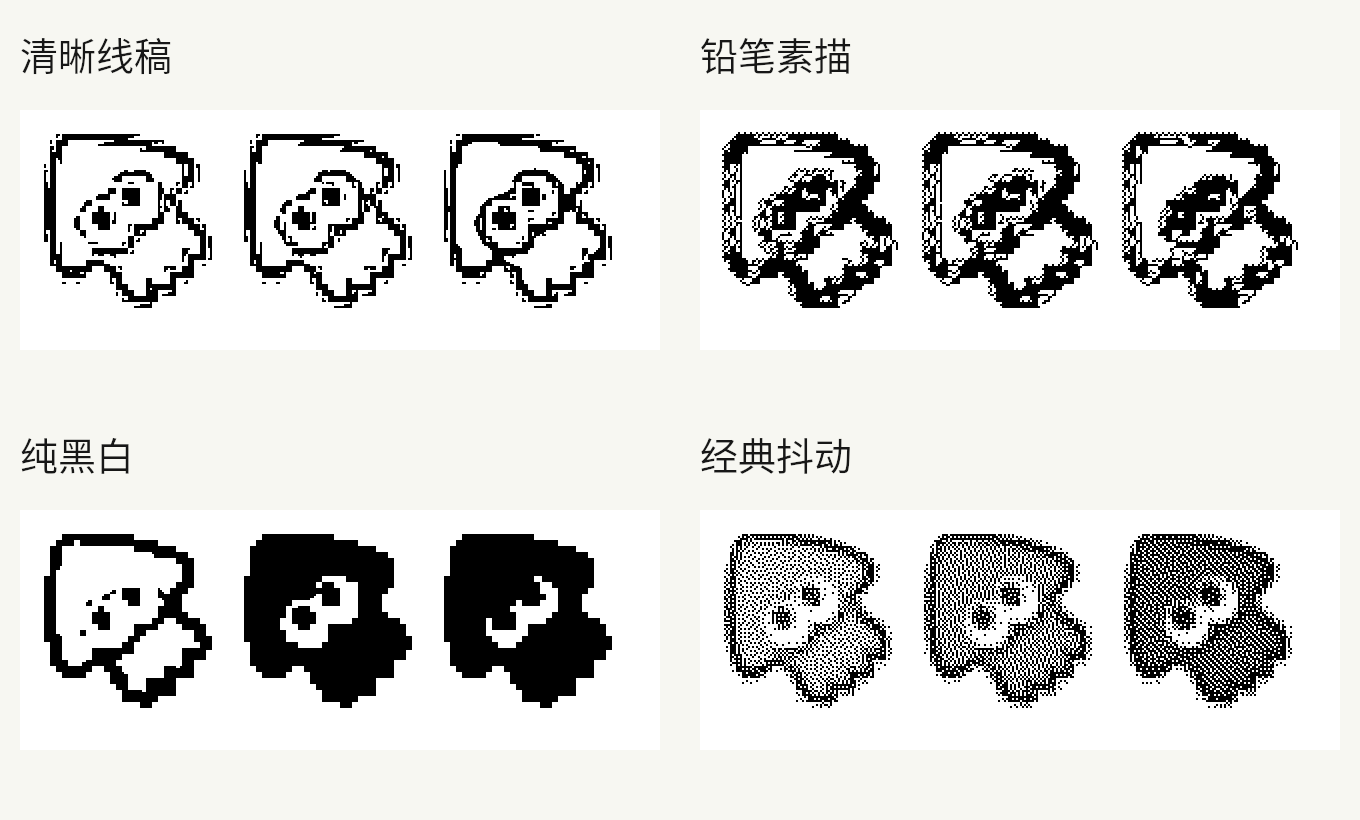
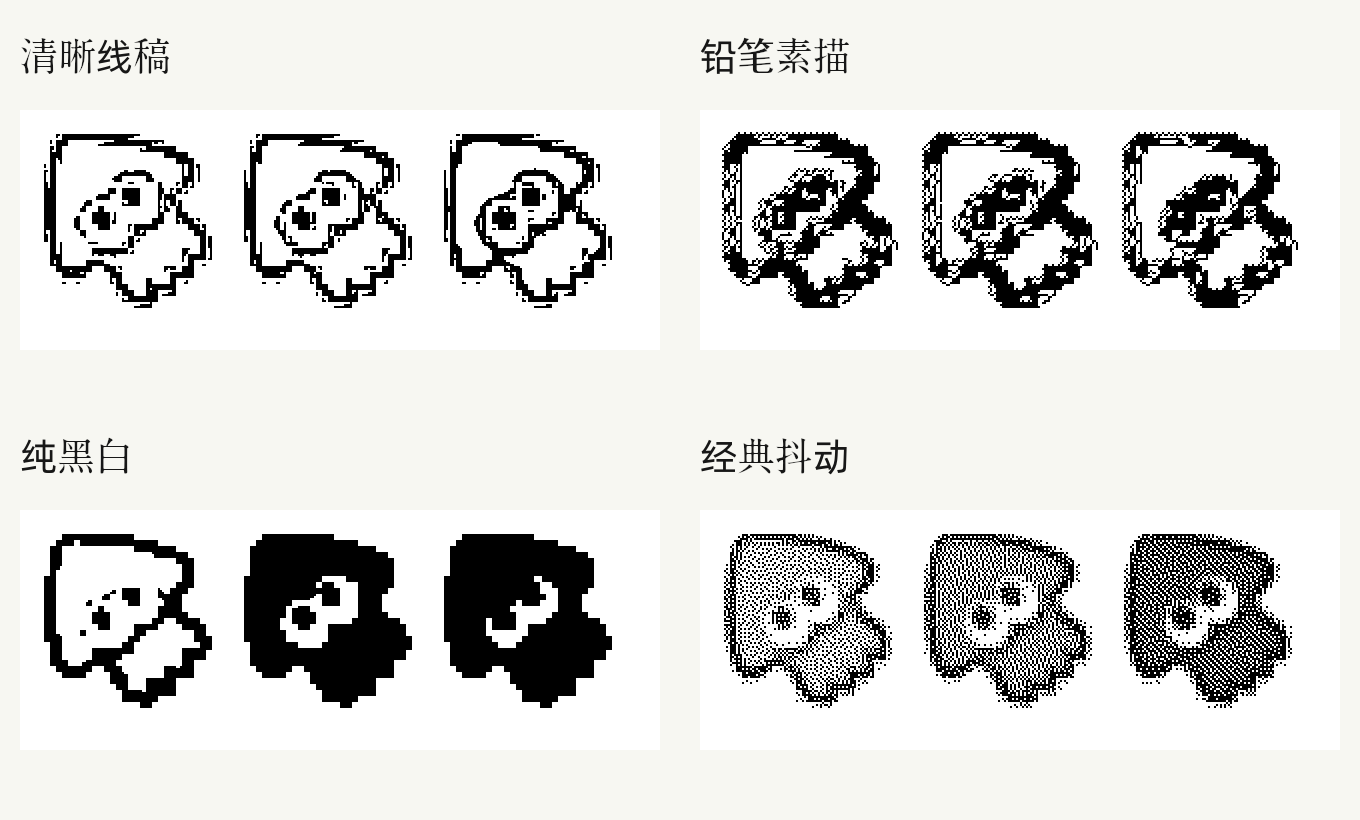
Simplify maintenance docs and preserve pencil artwork outlines

diff --git a/tests/test_core.cpp b/tests/test_core.cpp
@@ -259,6 +259,37 @@ private slots:
             }
         }
     }
+    void pencilRetainsFlatArtwork()
+    {
+        QImage source(320, 120, QImage::Format_RGB32); source.fill(Qt::white);
+        {
+            QPainter p(&source);
+            p.setPen(Qt::NoPen);
+            p.setBrush(QColor("#D9FF43")); p.drawEllipse(20, 20, 80, 80);
+            p.setBrush(QColor("#7547FF")); p.drawEllipse(120, 20, 80, 80);
+            p.setBrush(Qt::NoBrush); p.setPen(QPen(Qt::black, 3));
+            p.drawRect(230, 20, 65, 80);
+        }
+        ProcessOptions options; options.preset = ImagePreset::Pencil;
+        const auto result = processImage(source, options);
+        const auto enlarged = processImage(source.scaled(1280, 480, Qt::IgnoreAspectRatio,
+                                                         Qt::FastTransformation), options);
+        QCOMPARE(result, enlarged);
+        for (const QRect region : {QRect(10, 10, 100, 100), QRect(110, 10, 100, 100),
+                                   QRect(220, 10, 85, 100)}) {
+            int black = 0;
+            for (int y = region.top(); y <= region.bottom(); ++y)
+                for (int x = region.left(); x <= region.right(); ++x)
+                    black += qGray(result.pixel(x, y)) == 0;
+            QVERIFY2(black > 100 && black < region.width() * region.height() / 2,
+                     qPrintable(QString("Flat artwork region %1 retained %2 black pixels")
+                                .arg(region.x()).arg(black)));
+        }
+        QCOMPARE(result.pixelColor(230, 60), QColor(Qt::black));
+        options.threshold = 255;
+        const auto dark = processImage(source, options);
+        QCOMPARE(dark.pixelColor(0, 0), QColor(Qt::black));
+    }
     void photoComparison()
     {
         QImage photo(QFINDTESTDATA("data/fruits.jpg"));

diff --git a/AutoSplatoon/imageprocessor.cpp b/AutoSplatoon/imageprocessor.cpp
@@ -14,13 +14,21 @@ QImage processImage(const QImage& composition, const ProcessOptions& o)
     cv::Mat src(rgb.height(), rgb.width(), CV_8UC3, rgb.bits(), rgb.bytesPerLine());
     cv::Mat gray;
     if (o.preset == ImagePreset::Pencil) {
-        cv::Mat bgr, color;
-        cv::cvtColor(src, bgr, cv::COLOR_RGB2BGR);
+        // Pixel-based sketch parameters must use the drawing resolution.
+        cv::Mat drawing, bgr, color, luminance, edges;
+        cv::resize(src, drawing, cv::Size(320, 120), 0, 0, cv::INTER_AREA);
+        cv::cvtColor(drawing, luminance, cv::COLOR_RGB2GRAY);
+        cv::cvtColor(drawing, bgr, cv::COLOR_RGB2BGR);
         cv::pencilSketch(bgr, gray, color, 20.f + o.detail, .07f, .1f);
+        // Keep dark strokes and flat-colour boundaries for thresholding.
+        luminance.copyTo(gray, luminance < 32);
+        const double edgeThreshold = 20. + (100 - o.detail) / 5.;
+        cv::Canny(luminance, edges, edgeThreshold, edgeThreshold * 3.);
+        gray.setTo(0, edges);
     } else {
         cv::cvtColor(src, gray, cv::COLOR_RGB2GRAY);
+        cv::resize(gray, gray, cv::Size(320, 120), 0, 0, cv::INTER_AREA);
     }
-    cv::resize(gray, gray, cv::Size(320, 120), 0, 0, cv::INTER_AREA);
     if (o.denoise > 0 && o.preset != ImagePreset::Dither) {
         cv::Mat smooth;
         cv::bilateralFilter(gray, smooth, 5, 15. * o.denoise, 3.);

diff --git a/docs/validation.md b/docs/validation.md
@@ -4,7 +4,7 @@
 
 ## 已完成的连接恢复实测
 
-2026-10-22，使用者在 Windows 工作区测试构建中验证了连接时自动复位功能。被测程序的运行路径及 SHA-256 已核对。
+2026-10-22，使用者在 Windows 测试构建中验证了连接时自动复位功能。
 
 | 项目 | 结果 |
 | --- | --- |
@@ -16,7 +16,7 @@
 
 五轮结果由使用者汇总确认。游戏内使用 Joy-Con 容易立即触发断联，游戏外界面不容易触发。软件通过复位恢复使用，固件的无复位重连能力仍未得到验证。
 
-本次实测限表中设备组合。完整 320×120 绘图及保存、长时间运行、USB 断连、响应超时和其他板卡兼容性，仍需按具体版本和设备分别检查。
+上述连接恢复结果限表中设备组合。完整 320×120 绘图及保存、长时间运行、USB 断连、响应超时和其他板卡兼容性，仍需按具体版本和设备分别检查。
 
 ## 自动测试
 
@@ -25,7 +25,7 @@ CTest 检查以下行为。
 - 绘图计划按预期覆盖像素，包括单像素、首末列、空行和指定起点，完成后发送保存动作。
 - 暂停、继续和停止能够正确切换状态，停止时释放按键。
 - 控制包与 CRC 正确，内置固件通过哈希校验。
-- 四种图像预设输出尺寸及黑白值正确，透明图和小图可处理，预览缩放不改变导出像素。
+- 四种图像预设输出尺寸及黑白值正确，透明图和小图可处理，预览缩放不改变导出像素；铅笔素描保留平涂轮廓和深色笔画，原图与整数放大图输出一致。
 - 连续导入只保留最新结果。
 - 连接过程中禁用设备操作，重复点击不会重启流程；关闭或失败后取消等待并清除旧 HID 状态。
 - 模拟烧录覆盖成功、芯片探测失败、写入失败和取消。真实烧录结果单独记录。
@@ -38,8 +38,6 @@ CI 在 100%、125%、150%、200%、250%、300% 逻辑缩放下执行同一测试
 
 `AutoSplatoon --smoke-test` 会处理内置测试图并退出。可通过 `AUTOSPLATOON_SMOKE_OUTPUT` 指定已存在的目录，保存窗口截图和 320×120 输出。运行程序无需联网。
 
-构建、测试日志和安装包保存在本地 build、dist 或 CI 产物中，Git 仅保留测试源码及必要的固定输入。
-
 ## 图像与界面检查
 
 设置 `AUTOSPLATOON_QA_OUTPUT` 后，核心测试会保存四预设、照片及黑白小图的输出，便于比较依赖或算法改动。图像检查使用同一组照片、插画、文字、透明图、小图和纯色图，观察轮廓、散点、细节及黑白值。线稿重在轮廓连续，照片可以尝试铅笔素描或经典抖动；不同素材需分别检查。
@@ -50,6 +48,4 @@ CI 在 100%、125%、150%、200%、250%、300% 逻辑缩放下执行同一测试
 
 先检查首次烧录与配对，再校准光标并测试少量像素。随后检查暂停、继续、停止释放按键、USB 断连及超时处理，最后完成整幅绘图和保存。
 
-连接恢复需另做五个独立故障循环。每轮在游戏内使用 Joy-Con 触发断联，确认再次无法配对后，仅用软件“断开 → 连接”恢复，检查主机方向键和 A 键。记录板卡、USB 转串口芯片、软件及主机系统版本。此前 esptool 的复位结果与原生 Qt 实现分开统计。
-
-固件仍限上游 UARTSwitchCon 支持的传统 ESP32，不支持 S2、S3、C3 或 C6。
+连接恢复需另做五个独立故障循环。每轮在游戏内使用 Joy-Con 触发断联，确认再次无法配对后，仅用软件“断开 → 连接”恢复，检查主机方向键和 A 键。记录板卡、USB 转串口芯片、软件及主机系统版本，以及被测程序的路径和 SHA-256。

diff --git a/docs/hardware.md b/docs/hardware.md
@@ -6,19 +6,11 @@
 
 通常可直接通过开发板的 USB 转串口连接；自制板或外接串口需按上游及板卡手册确认 UART0、共地和电平，不套用 UART2 固件的接线。USB 线必须支持数据传输。
 
-## 源地 YD-ESP32 可以连接 Switch 2 绘图
-
-我使用源地 YD-ESP32 开发板和 Switch 2 完成了绘图。选板时应确认开发板使用支持经典蓝牙的传统 ESP32。
-
 ## 首次使用需要烧录和配对
 
-1. 连接开发板，刷新串口，选择对应设备。Windows 常见描述为 CH340/CH9102 或 CP210x；不要根据端口编号认定板卡型号。
-2. 点击“烧录内置固件”。程序释放串口，使用包内 esptool 探测传统 ESP32，再将已校验的合并固件写入 0x0。日志显示成功后关闭烧录窗口。烧录覆盖开发板原有固件。
-3. 点击“连接”，等待开发板重启并完成串口连接，再打开“手动控制 / 配对”。在 Switch 打开“手柄 → 更改握法 / 顺序”，按住软件顶部的“L + R 配对”按钮，出现手柄后松开。等待配对时也可以使用手动面板。
-4. 出现“Switch 手柄通信正常 · 可以绘图”后，进入游戏绘图界面并校准光标。起始行列从 0 计数，默认左上角 (0,0)；实际游戏光标必须与软件所选位置一致。先用少量像素测试方向和位置，再绘制完整图片。
-5. 导入图片，检查蓝框内的 320×120 结果，选择预设与构图，开始绘图。默认按下和释放各 70 ms；绘制中不要在主机上移动光标或切换页面。
+按 [首次绘图步骤](../README.md#首次绘图需要连接和校准) 完成烧录、连接、配对和光标校准。Windows 串口常见描述为 CH340/CH9102 或 CP210x，应根据设备信息确认板卡。
 
-再次使用相同固件无需重刷。应用升级未改变内置固件时无需重刷；下载后完整解压新软件目录。
+烧录使用包内 esptool 探测传统 ESP32，再将已校验的合并固件写入 0x0。日志显示成功后关闭烧录窗口；相同固件可重复使用，应用升级未改变固件时无需重刷。
 
 手动面板左侧为方向键，右侧为 ABXY；L3 表示左摇杆按压。切换窗口或关闭面板会释放输入，绘图及暂停期间禁用手动面板。
 
@@ -39,10 +31,8 @@
 
 驱动链接和 Linux 权限命令见 [串口连接说明](../README.md#串口连接需要数据线和对应驱动)。反馈问题时，请附软件版本、操作系统、板卡型号、USB 转串口芯片、Switch 系统和游戏版本，并写清操作步骤及报错。日志中不要包含访问令牌或其他账号凭证。
 
-## 验证范围
+## 自动复位与验证范围
 
 每次点击“连接”都会通过 USB 转串口的 DTR／RTS 控制线尝试重启 ESP32，已有蓝牙连接会中断。开发板需要带对应的自动复位电路。软件收到接口调用成功的结果后，仍需等主机配对和按键响应，才能确认恢复正常。
 
-重启使用正常启动时序，固件保持原样。串口不支持自动复位时，软件会提示并继续尝试普通连接。
-
-自动化检查覆盖串口状态、动作规划和烧录进程模拟。真实烧录、配对、长时间绘图与物理显示器检查见 [验证方法](validation.md)。
+串口不支持自动复位时，软件会提示并继续尝试普通连接。源地 YD-ESP32 与 Switch 2 的连接恢复实测及其他检查范围见 [验证说明](validation.md)。

diff --git a/docs/building.md b/docs/building.md
@@ -26,7 +26,7 @@ cpack --config build/release/CPackConfig.cmake -B dist
 
 macOS 使用 `macos-arm64` 和 Xcode/Apple Clang，配置时指定 `-DCMAKE_OSX_ARCHITECTURES=arm64`，最低系统版本为 14.4。Linux 使用 `linux-amd64` 和 GCC，构建基线为 Ubuntu 22.04。两者将虚拟环境的 `bin` 和 Qt 的 `bin` 加入 PATH，省略 Windows 编译器参数和 windeployqt。Linux 构建所需系统库清单见工作流；执行 `python tools/package_linux.py --qt /absolute/path/.deps/qt` 生成 AppImage 和目录包。
 
-OpenCV 从锁定源码静态构建 core、imgproc、photo 及其必需的 geometry/flann 依赖。图片格式由 Qt 插件提供。Qt 动态链接，发行包同时携带 Qt SBOM、OpenCV 第三方声明、固件、字体和烧录工具许可证。
+OpenCV 从锁定源码静态构建 core、imgproc、photo 及其必需的 geometry/flann 依赖。图片格式由 Qt 插件提供。Qt 动态链接，发行包携带各组件许可证及 Qt SBOM。MinGW 使用 Qt SDK 对应的 15.1.0 工具链，详见 [Qt 6.12 工具版本](https://wiki.qt.io/Qt_6.12_Tools_and_Versions)。
 
 ## 验证
 
@@ -37,10 +37,8 @@ Linux 使用官方 linuxdeploy Qt 插件的 `EXTRA_PLATFORM_PLUGINS` 和 `EXTRA_
 ## 发布
 
 1. 更新 CMake 项目版本，编写该版本的 `docs/release-notes/v<版本>.md`；应用版本由构建配置传入。
-2. 逐项检查并提交本次发布所需的源码、测试、构建配置和文档。程序必需的资源及许可证继续保留；构建目录、发行包、验证日志和宣传素材留在本地。
+2. 提交源码、测试、构建配置和文档；构建目录、发行包、验证日志和宣传素材由 Git 忽略。
 3. 推送与项目版本相符的 `v<版本>` 标签。三平台构建、测试、最终包验证及 Linux 容器检查全部通过后，工作流统一发布 Windows ZIP、macOS DMG、Linux AppImage、目录压缩包和 `SHA256SUMS.txt`。
 4. 下载校验清单，对照各资产 SHA-256；保持已发布标签不可变。
 
 发布任务使用 GitHub Actions 自带令牌，无需额外发布密钥。目前应用未配置正式代码签名或 macOS 公证。历史版本说明和验证日志保存在 Git、GitHub Releases 与 Actions 中。
-
-确认新版归档可用后，可清理旧 build、临时安装目录、旧版安装包和下载缓存。保留当前发行包及必要日志；.deps 中的 SDK、编译器和虚拟环境可继续使用。

diff --git a/docs/release-notes/v1.0.6.md b/docs/release-notes/v1.0.6.md
@@ -2,10 +2,9 @@
 
 再次无法配对时，点击“断开连接”再“连接”。软件会重启 ESP32，等待启动后重新连接串口，随后可以在 Switch 上配对，无需重新烧录固件。
 
-- 沿用现有连接按钮、串口选择和手动配对面板。每次连接都会尝试自动复位开发板，通信中断时不会自行重启。
+- 每次连接都会尝试自动复位开发板，通信中断时不会自行重启。
 - 连接过程中显示进度，暂时禁用串口选择、刷新和烧录操作。图像处理完成后仍保留连接提示。
-- 补充再次配对、手动 RST 和自动复位不可用时的处理方法，整理使用及验证说明。
-- 移除文档中未使用的旧预览和生成记录，保留运行资源、示例来源和必要许可证。
+- 串口不支持自动复位时，提示手动按 RST，并继续尝试普通握手。
 
 Windows 测试构建已在 YD-ESP32（CH340K、ESP32-D0WD-V3 v3.1）和 Switch 2 系统 23.0.1 上验证。首次连接、重刷同一固件后的连接均通过；游戏内使用 Joy-Con 触发断联后，仅通过软件“断开 → 连接”恢复配对和按键响应，五轮成功 5/5。详细范围见 [验证说明](../validation.md)。
 
